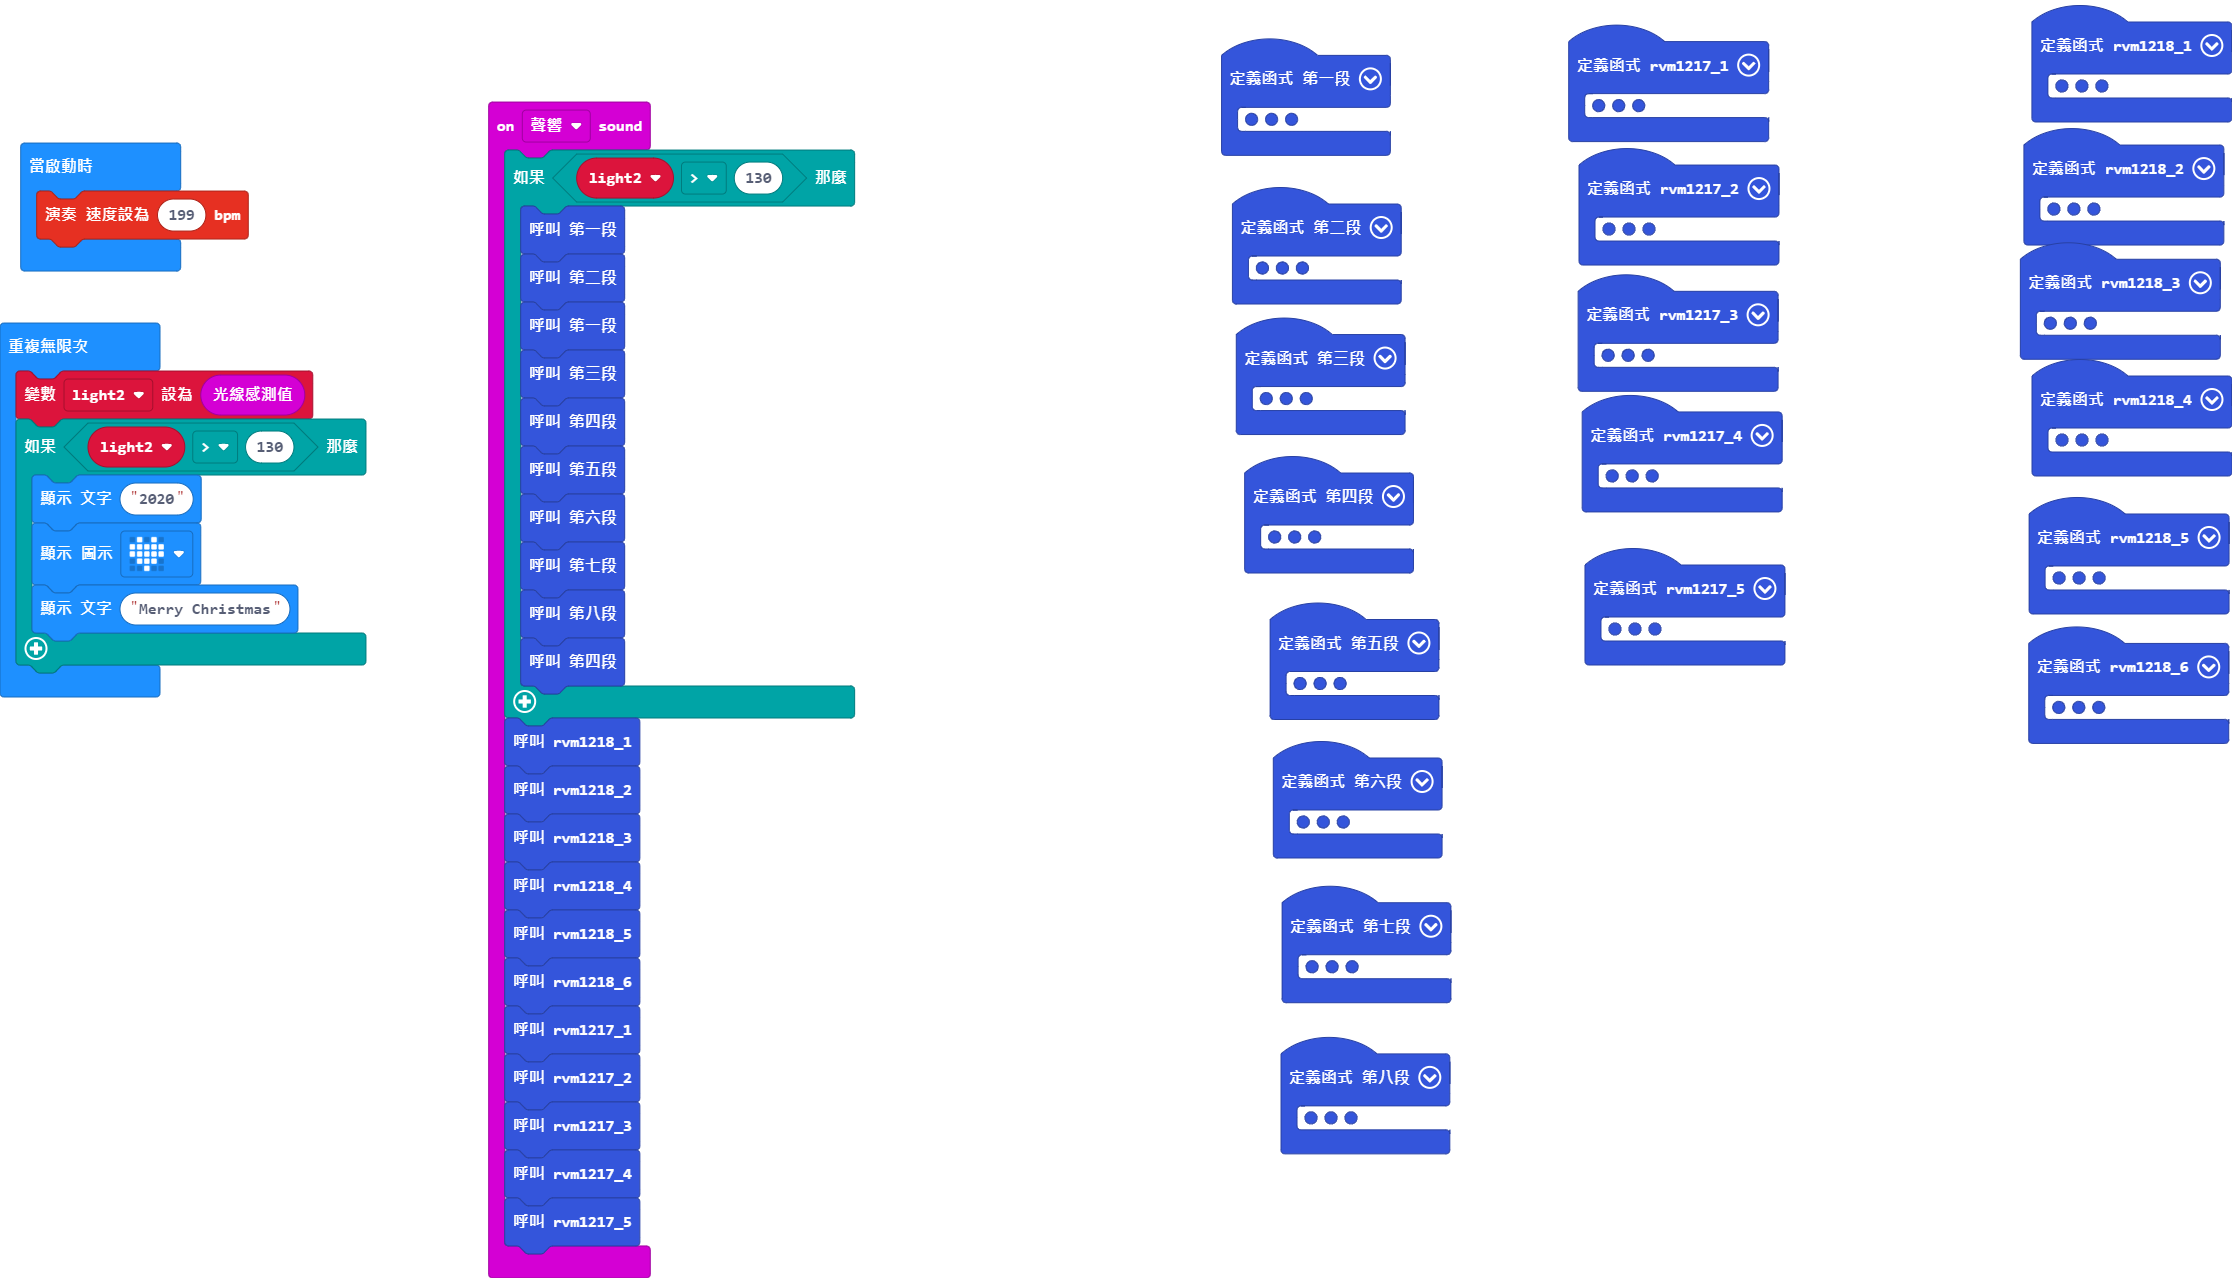
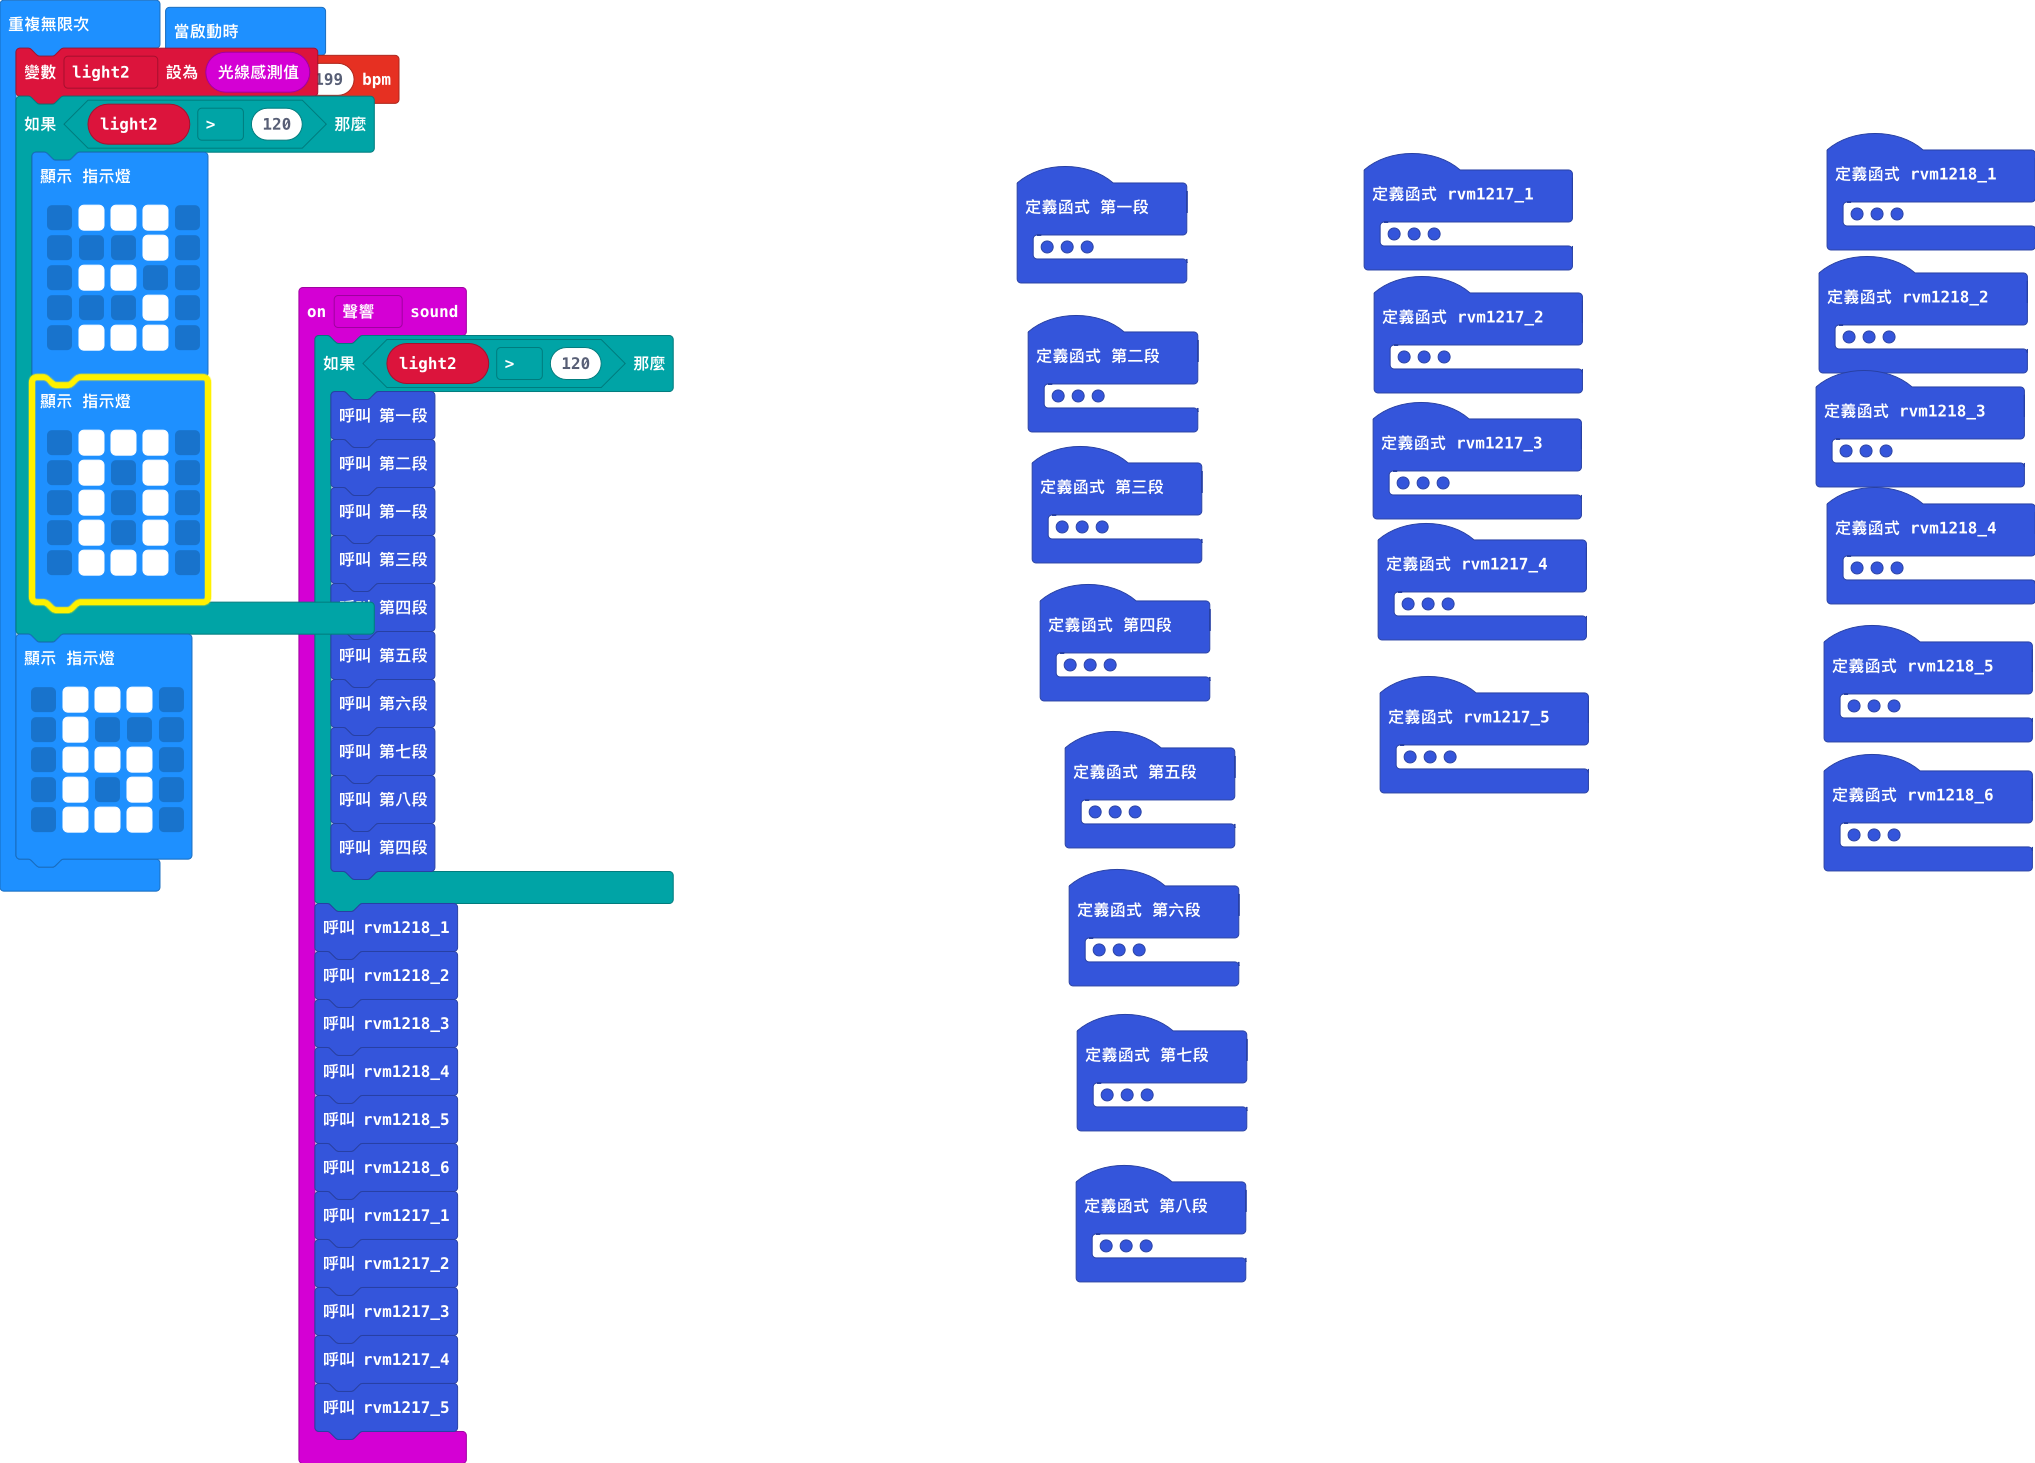
Update main.blocks, main.ts

diff --git a/main.ts b/main.ts
@@ -40,7 +40,7 @@ function rvm1218_2 () {
     music.playTone(392, music.beat(BeatFraction.Whole))
 }
 input.onSound(DetectedSound.Loud, function () {
-    if (light2 > 130) {
+    if (light2 > 120) {
         第一段()
         第二段()
         第一段()
@@ -277,9 +277,27 @@ let light2 = 0
 music.setTempo(199)
 basic.forever(function () {
     light2 = input.lightLevel()
-    if (light2 > 130) {
-        basic.showString("2020")
-        basic.showIcon(IconNames.Heart)
-        basic.showString("Merry Christmas")
+    if (light2 > 120) {
+        basic.showLeds(`
+            . # # # .
+            . . . # .
+            . # # . .
+            . . . # .
+            . # # # .
+            `)
+        basic.showLeds(`
+            . # # # .
+            . # . # .
+            . # . # .
+            . # . # .
+            . # # # .
+            `)
     }
+    basic.showLeds(`
+        . # # # .
+        . # . . .
+        . # # # .
+        . # . # .
+        . # # # .
+        `)
 })
